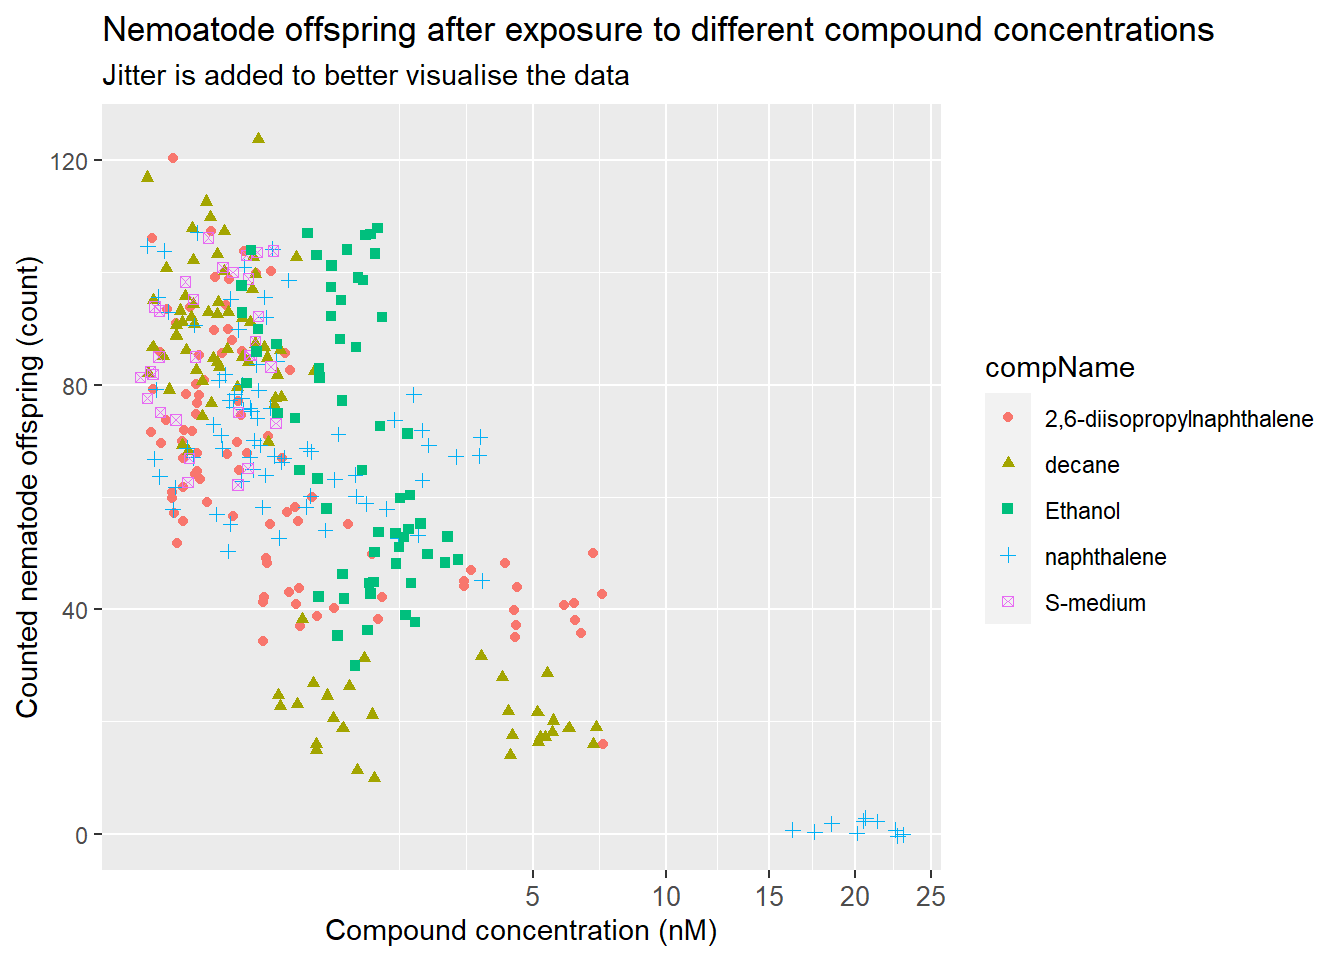
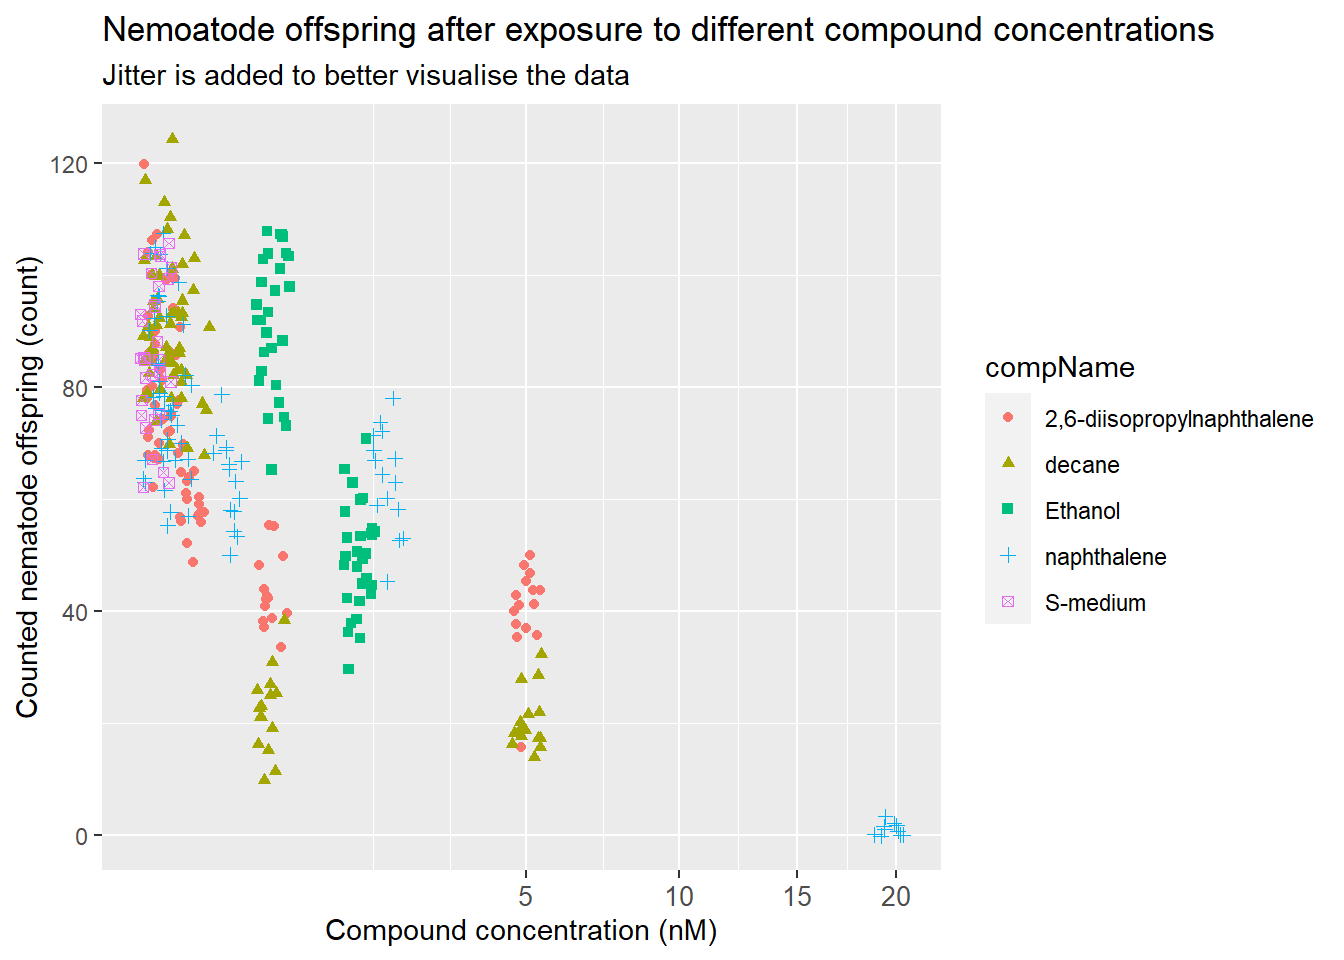
Jitter aanpassingen aan C. elegans experiment

diff --git a/_book/looking-ahead.html b/_book/looking-ahead.html
@@ -275,12 +275,12 @@ With pip failing we are left with Anaconda. Let’s try do download a simple pac
 <span class="co"># Check it</span>
   <span class="fu"><a href="https://rdrr.io/pkg/S4Vectors/man/Vector-class.html">head</a></span><span class="op">(</span><span class="va">edgeWeights</span><span class="op">[</span><span class="fu"><a href="https://Rdatatable.gitlab.io/data.table/reference/setorder.html">order</a></span><span class="op">(</span><span class="va">edgeWeights</span><span class="op">$</span><span class="va">cellHomogeneity</span>, decreasing <span class="op">=</span> <span class="cn">TRUE</span><span class="op">)</span>,<span class="op">]</span><span class="op">)</span>
 <span class="co">#&gt;    Var1 cellHomogeneity</span>
-<span class="co">#&gt; 5 1e+05     -0.01601085</span>
-<span class="co">#&gt; 6 1e+06     -0.02937855</span>
-<span class="co">#&gt; 7 1e+07     -0.03117532</span>
-<span class="co">#&gt; 4 1e+04     -0.04023068</span>
-<span class="co">#&gt; 3 1e+03     -0.07587173</span>
-<span class="co">#&gt; 1 1e+01     -0.29998454</span>
+<span class="co">#&gt; 7 1e+07     -0.02881429</span>
+<span class="co">#&gt; 4 1e+04     -0.04319474</span>
+<span class="co">#&gt; 6 1e+06     -0.04941116</span>
+<span class="co">#&gt; 5 1e+05     -0.05492512</span>
+<span class="co">#&gt; 3 1e+03     -0.05668822</span>
+<span class="co">#&gt; 2 1e+02     -0.27746772</span>
 
 <span class="co">### Making a cellWalk Object ###################################################</span>
 

diff --git a/_book/04-looking_ahead.md b/_book/04-looking_ahead.md
@@ -165,12 +165,12 @@ The data linked is from [this](https://www.nature.com/articles/s41586-021-03209-
 # Check it
   head(edgeWeights[order(edgeWeights$cellHomogeneity, decreasing = TRUE),])
 #>    Var1 cellHomogeneity
-#> 5 1e+05     -0.01601085
-#> 6 1e+06     -0.02937855
-#> 7 1e+07     -0.03117532
-#> 4 1e+04     -0.04023068
-#> 3 1e+03     -0.07587173
-#> 1 1e+01     -0.29998454
+#> 7 1e+07     -0.02881429
+#> 4 1e+04     -0.04319474
+#> 6 1e+06     -0.04941116
+#> 5 1e+05     -0.05492512
+#> 3 1e+03     -0.05668822
+#> 2 1e+02     -0.27746772
 
 ### Making a cellWalk Object ###################################################
 
